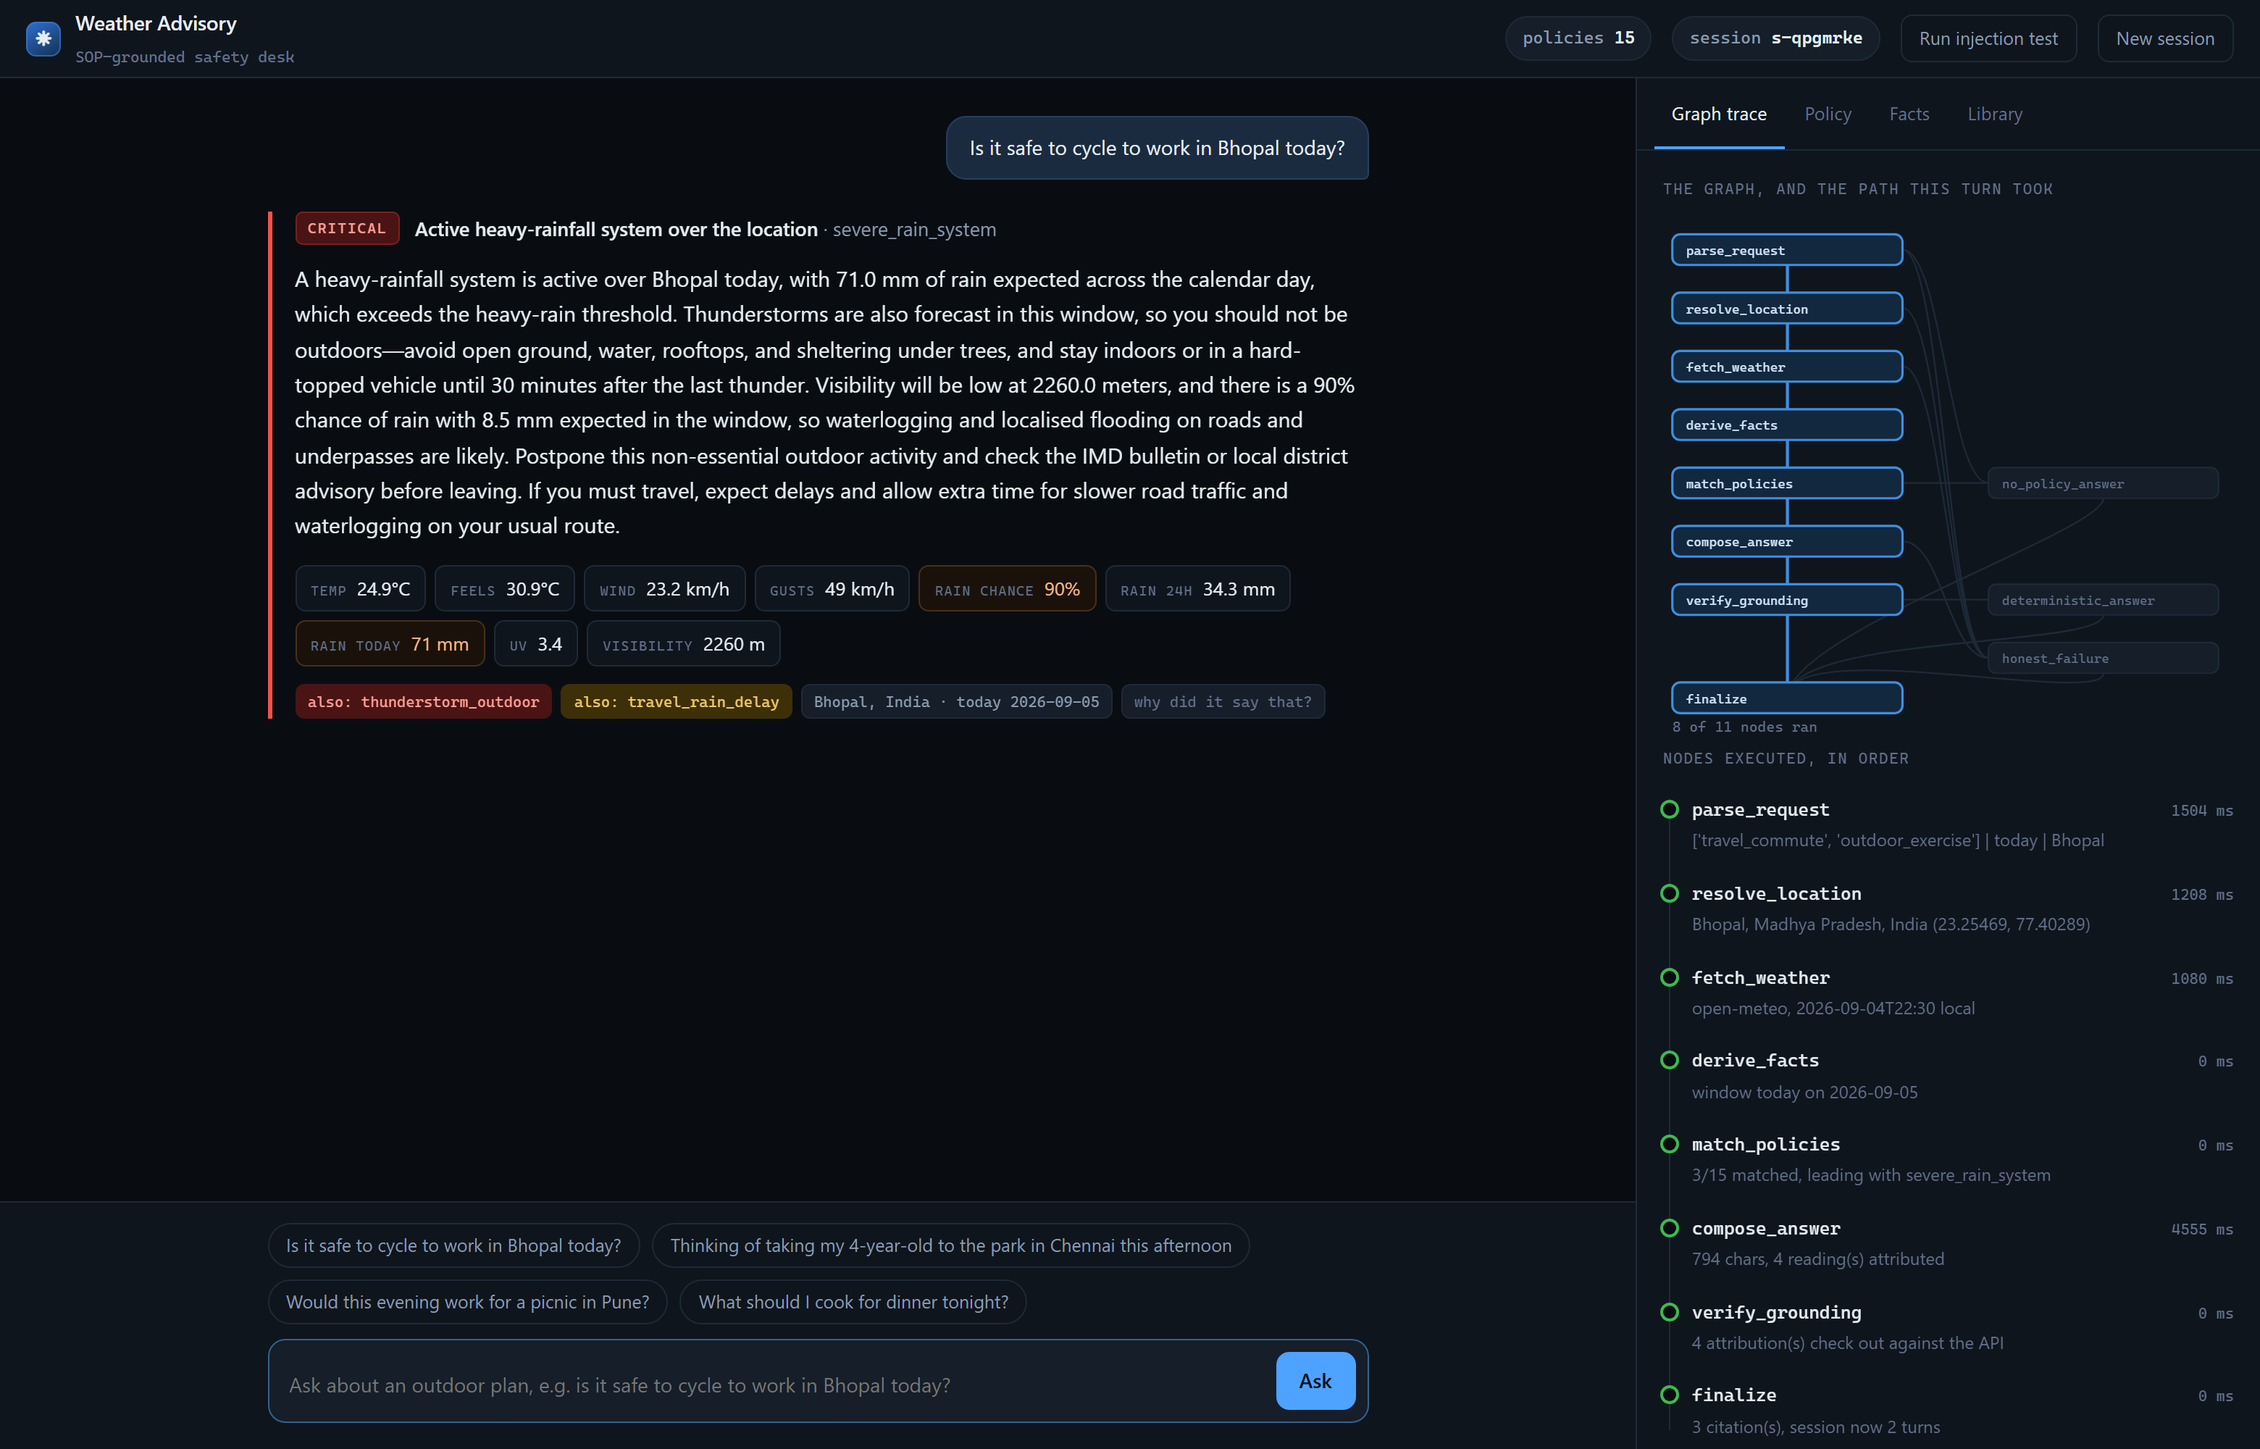
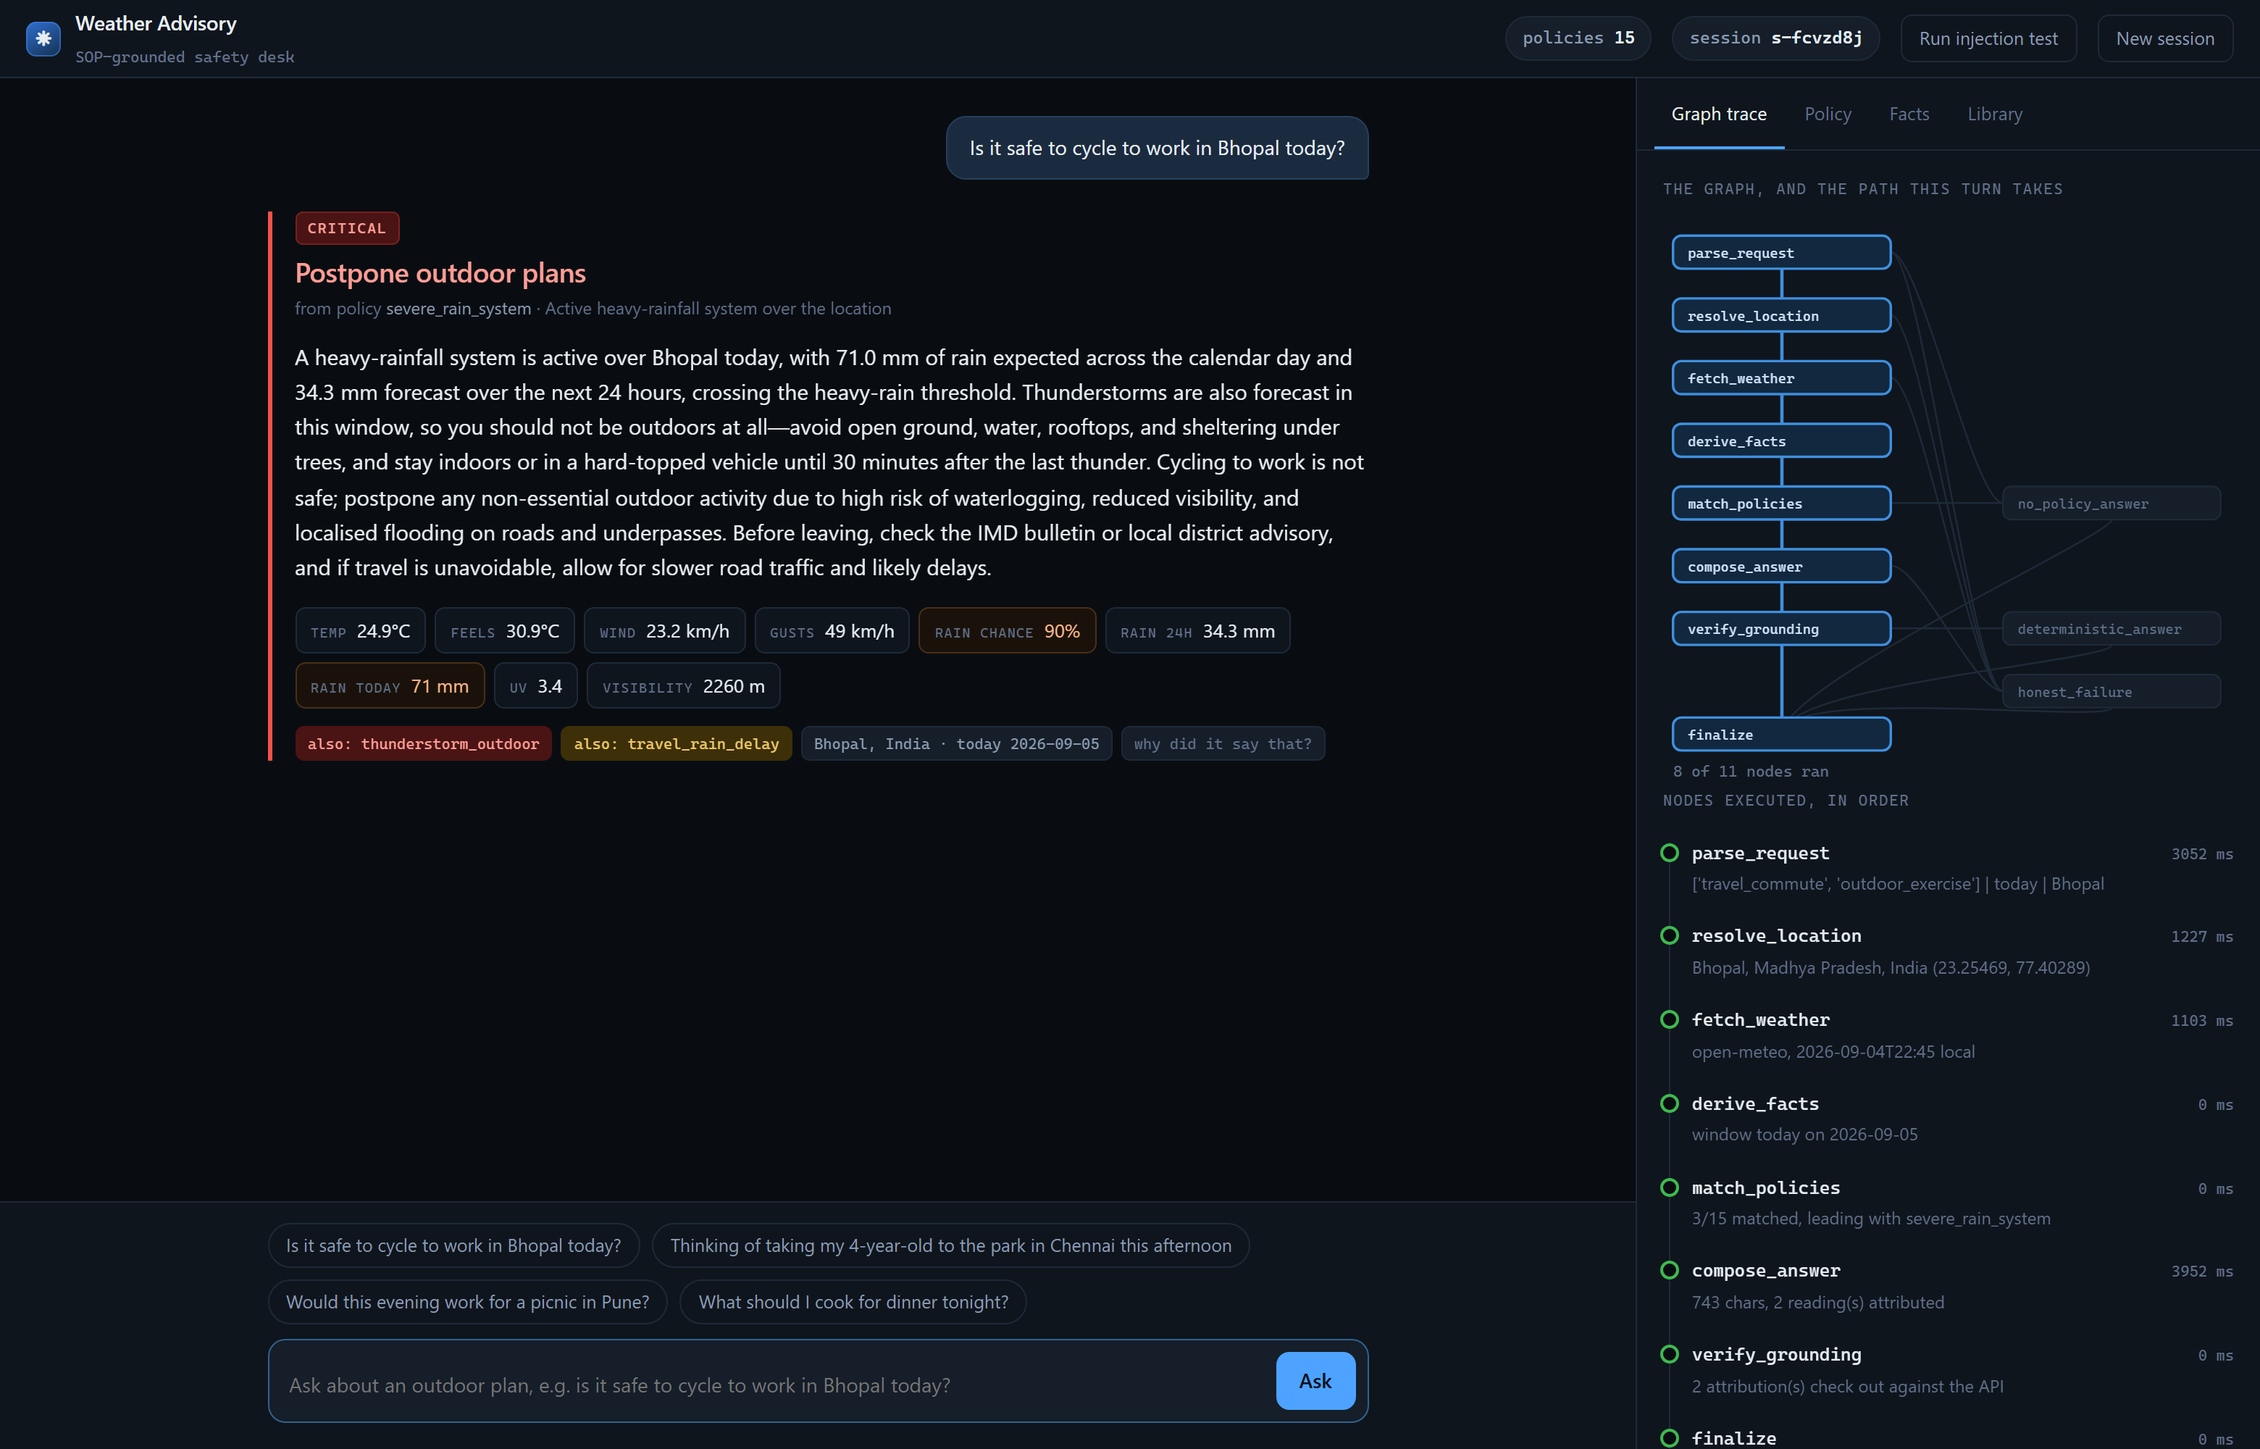
Lead with the decision, and animate the graph as it runs
The reply header named the policy but buried the actual call in the prose. Each
policy now carries a `verdict` - "Postpone outdoor plans", "Go, but allow extra
time", "Clear to proceed" - shown in large type above the explanation.

Keeping the verdict in the YAML is the point rather than a detail: the decision
a user acts on is written by whoever owns the policy, and the model phrases only
the reasoning beneath it. Putting it anywhere else would hand the model the one
judgement this system exists to withhold from it. lint now rejects a policy with
no verdict, or one padded into a sentence.

The graph diagram also animates now. Nodes and the edges that reach them draw in
as the SSE stream reports each one, with a spark travelling the edge and a live
node count, so the branch is watched being chosen rather than read afterwards.
Untaken branches stay dim; the honest-failure path animates red. Honours
prefers-reduced-motion.

Evals: 16/16.

diff --git a/web/index.html b/web/index.html
@@ -303,6 +303,41 @@ dialog::backdrop { background: #000c; }
 .gedge.fail { stroke: var(--critical); stroke-width: 2; }
 .glegend { font-family: var(--mono); font-size: 9.5px; fill: var(--dim); }
 </style>
+<style>
+/* The decision, said once, at the top. It comes from the policy's `verdict` field, never the model. */
+.verdict { display: block; margin-bottom: 12px; }
+.verdict-row { display: flex; align-items: center; gap: 9px; flex-wrap: wrap; }
+.verdict-call {
+  font-size: 19px; line-height: 1.25; font-weight: 600; letter-spacing: -0.015em; margin: 7px 0 3px;
+}
+.verdict-call.critical { color: #ff9d95; }
+.verdict-call.high     { color: #ffb787; }
+.verdict-call.moderate { color: #ecc766; }
+.verdict-call.low      { color: #86e08a; }
+.verdict-call.info     { color: #90c8ff; }
+.verdict-call.none     { color: var(--muted); }
+.verdict-source { font-size: 12px; color: var(--dim); }
+.verdict-source b { color: var(--muted); font-weight: 400; }
+</style>
+<style>
+.gedge { transition: stroke 200ms; }
+.gnode rect { transition: fill 220ms, stroke 220ms; }
+.gnode.pop rect { animation: nodePop 420ms cubic-bezier(.34,1.4,.5,1); }
+@keyframes nodePop {
+  0%   { transform: scale(1);    filter: brightness(1); }
+  35%  { transform: scale(1.03); filter: brightness(1.5); }
+  100% { transform: scale(1);    filter: brightness(1); }
+}
+.gnode.pop rect { transform-box: fill-box; transform-origin: center; }
+.spark { fill: #7cc4ff; filter: drop-shadow(0 0 4px #4da3ff); }
+.spark.fail { fill: #ff9d95; filter: drop-shadow(0 0 4px #f85149); }
+.glegend { transition: fill 200ms; }
+@media (prefers-reduced-motion: reduce) {
+  .gnode.pop rect { animation: none; }
+  .gedge { transition: none !important; }
+  .spark { display: none; }
+}
+</style>
 </head>
 <body>
 <div class="shell">
@@ -422,8 +457,9 @@ function addPendingTurn() {
     <div class="turn">
       <div class="reply none">
         <div class="verdict">
-          <span class="sev-pill running">working</span>
-          <span class="verdict-title">reading the question</span>
+          <div class="verdict-row"><span class="sev-pill running">working</span></div>
+          <div class="verdict-call none">Working on it</div>
+          <div class="verdict-source verdict-title">reading the question</div>
         </div>
         <div class="text"><span class="cursor"></span></div>
         <div class="readings"></div>
@@ -463,6 +499,7 @@ async function send(text) {
   addUserTurn(text);
   const turn = addPendingTurn();
   const steps = [];
+  $("#tab-trace").innerHTML = "";
   renderTrace(steps, true);
   switchTab("trace");
 
@@ -537,14 +574,20 @@ function paintResult(turn, result) {
   reply.className = "reply " + severity;
 
   const label = primary ? severity : result.failure ? "no data" : "no policy";
-  const title = primary
-    ? `<b>${esc(primary.title)}</b> &middot; ${esc(primary.id)}`
+  const call = primary
+    ? primary.verdict || primary.title
     : result.failure
-      ? `the graph stopped at the <b>${esc(result.failure.stage)}</b> stage &mdash; no forecast was given`
-      : "no policy in our set covers this question";
+      ? "No answer — I could not get the data"
+      : "No guidance — our policies do not cover this";
+  const source = primary
+    ? `from policy <b>${esc(primary.id)}</b> &middot; ${esc(primary.title)}`
+    : result.failure
+      ? `the graph stopped at the <b>${esc(result.failure.stage)}</b> stage, so no forecast was given`
+      : "nothing in the policy set matched, so no advice is attached";
   reply.querySelector(".verdict").innerHTML =
-    `<span class="sev-pill ${severity === "none" ? "none" : severity}">${esc(label)}</span>` +
-    `<span class="verdict-title">${title}</span>`;
+    `<div class="verdict-row"><span class="sev-pill ${severity === "none" ? "none" : severity}">${esc(label)}</span></div>` +
+    `<div class="verdict-call ${severity}">${esc(call)}</div>` +
+    `<div class="verdict-source">${source}</div>`;
 
   typeOut(reply.querySelector(".text"), result.answer);
   renderReadings(reply.querySelector(".readings"), result.facts);
@@ -569,24 +612,36 @@ function paintResult(turn, result) {
   scrollDown();
 }
 
-function renderTrace(steps, live) {
+function traceShell() {
   const panel = $("#tab-trace");
-  const rows = steps.map((step) => `
+  if (!panel.querySelector("#graphBox")) {
+    panel.innerHTML = `<p class="section-title">the graph, and the path this turn takes</p>
+      <div id="graphBox"></div>
+      <p class="section-title">nodes executed, in order</p>
+      <div id="stepList" class="pipeline"></div>
+      <div id="traceNote"></div>`;
+    drawGraphSkeleton($("#graphBox"));
+  }
+  return panel;
+}
+
+function renderTrace(steps, live) {
+  traceShell();
+  $("#stepList").innerHTML = steps.map((step) => `
     <div class="step-row ${step.status === "error" ? "error" : step.status === "branch" ? "branch" : ""}">
       <div class="step-head">
         <span class="sname">${esc(step.node)}</span>
         <span class="sms">${step.ms == null ? "" : step.ms + " ms"}</span>
       </div>
       <div class="sdetail">${esc(step.detail ?? "")}</div>
-    </div>`).join("");
-  const pending = live
-    ? `<div class="step-row pending"><div class="step-head"><span class="sname">&hellip;</span></div></div>`
-    : "";
-  panel.innerHTML =
-    `<p class="section-title">nodes executed, in order</p><div class="pipeline">${rows}${pending}</div>` +
-    (live ? "" : `<p class="section-title">reading this</p><div class="notice">Each node is one step of the graph.
-      An amber node is a branch the graph chose; a red node is the honest-failure path.</div>`);
-  if (!live) renderGraphDiagram(panel, steps);
+    </div>`).join("") +
+    (live ? `<div class="step-row pending"><div class="step-head"><span class="sname">&hellip;</span></div></div>` : "");
+
+  steps.forEach((step, i) => activateNode(step.node, i ? steps[i - 1].node : null, step.status));
+
+  $("#traceNote").innerHTML = live ? "" :
+    `<p class="section-title">reading this</p><div class="notice">Each node is one step of the graph.
+     An amber node is a branch the graph chose; a red node is the honest-failure path.</div>`;
 }
 
 function conditionHtml(condition) {
@@ -955,34 +1010,61 @@ function edgePath(from, to) {
   return `M${sx},${sy}C${sx + 18},${sy} ${tx - 18},${ty} ${tx},${ty}`;
 }
 
-function renderGraphDiagram(container, trace) {
-  const taken = trace.map((step) => step.node);
-  const visited = new Set(taken);
-  const failed = trace.some((step) => step.status === "error");
-  const edgeTaken = new Set(taken.slice(0, -1).map((node, i) => `${node}>${taken[i + 1]}`));
-
-  const edges = G_EDGES.map(([from, to]) => {
-    const on = edgeTaken.has(`${from}>${to}`);
-    const isFailure = on && (FAILURE_NODES.has(to) || FAILURE_NODES.has(from));
-    return `<path class="gedge ${isFailure ? "fail" : on ? "on" : ""}" d="${edgePath(from, to)}" />`;
-  }).join("");
-
-  const nodes = Object.entries(G_NODES).map(([name, [x, y]]) => {
-    const on = visited.has(name);
-    const cls = on ? (FAILURE_NODES.has(name) ? "fail" : "on") : "";
-    return `<g class="gnode ${cls}">
+function drawGraphSkeleton(container) {
+  const edges = G_EDGES.map(([from, to]) =>
+    `<path class="gedge" data-edge="${from}>${to}" d="${edgePath(from, to)}" />`).join("");
+  const nodes = Object.entries(G_NODES).map(([name, [x, y]]) => `
+    <g class="gnode" data-node="${name}">
       <rect x="${x}" y="${y}" width="${G_W}" height="${G_H}" rx="5" />
-      <text x="${x + 9}" y="${y + 13.5}">${name}</text></g>`;
-  }).join("");
-
-  container.insertAdjacentHTML("afterbegin", `
-    <p class="section-title">the graph, and the path this turn took</p>
-    <svg viewBox="0 -4 346 340" role="img" aria-label="LangGraph pipeline with the executed path highlighted"
-         style="display:block;width:100%;margin-bottom:6px">
-      ${edges}${nodes}
-      <text class="glegend" x="6" y="332">${taken.length} of ${Object.keys(G_NODES).length} nodes ran${failed ? " · honest-failure path" : ""}</text>
-    </svg>`);
+      <text x="${x + 9}" y="${y + 13.5}">${name}</text>
+    </g>`).join("");
+  container.innerHTML = `
+    <svg viewBox="0 -4 346 344" role="img" aria-label="LangGraph pipeline with the executed path highlighted"
+         style="display:block;width:100%;margin-bottom:4px">
+      <g class="sparks"></g>${edges}${nodes}
+      <text class="glegend" x="6" y="336">waiting</text>
+    </svg>`;
+  container.dataset.lit = "";
 }
+
+/* Light one node and draw the edge that reached it. The stream sends nodes as they finish, so this
+   animates the run rather than replaying a canned sequence afterwards. */
+function activateNode(name, previous, status) {
+  const box = $("#graphBox");
+  if (!box || box.dataset.lit.includes(`|${name}`)) return;
+  box.dataset.lit += `|${name}`;
+
+  const node = box.querySelector(`[data-node="${name}"]`);
+  if (!node) return;
+  const failed = status === "error" || FAILURE_NODES.has(name);
+  node.classList.add(failed ? "fail" : "on", "pop");
+
+  const edge = previous && box.querySelector(`[data-edge="${previous}>${name}"]`);
+  if (edge) {
+    const length = edge.getTotalLength();
+    edge.classList.add(failed ? "fail" : "on");
+    edge.style.strokeDasharray = length;
+    edge.style.strokeDashoffset = length;
+    edge.getBoundingClientRect();
+    edge.style.transition = "stroke-dashoffset 380ms cubic-bezier(.4,.1,.3,1)";
+    edge.style.strokeDashoffset = "0";
+
+    const spark = document.createElementNS("http://www.w3.org/2000/svg", "circle");
+    spark.setAttribute("r", "3.2");
+    spark.setAttribute("class", "spark" + (failed ? " fail" : ""));
+    spark.innerHTML = `<animateMotion dur="0.38s" fill="freeze" path="${edge.getAttribute("d")}" />`;
+    box.querySelector(".sparks").append(spark);
+    setTimeout(() => spark.remove(), 420);
+  }
+
+  const lit = box.dataset.lit.split("|").filter(Boolean).length;
+  const legend = box.querySelector(".glegend");
+  const done = name === "finalize";
+  legend.textContent = done
+    ? `${lit} of ${Object.keys(G_NODES).length} nodes ran` + (box.querySelector(".gnode.fail") ? " · honest-failure path" : "")
+    : `running … ${lit} node${lit === 1 ? "" : "s"}`;
+}
+
 </script>
 </body>
 </html>

diff --git a/app/sops.py b/app/sops.py
@@ -26,6 +26,9 @@ class Sop:
     severity: str
     guidance: str
     when: list
+    # The decision itself, in the policy author's words. The model may phrase the explanation but
+    # never the call, so this is data like every other part of a rule.
+    verdict: str = ""
     requires_facts: list = field(default_factory=list)
     priority: int = 0
     override: bool = False
@@ -182,6 +185,10 @@ def lint(sop: Sop) -> list[str]:
             problems.append(f"requires_facts names unknown fact {fact!r}")
     if len(sop.guidance.strip()) < 40:
         problems.append("guidance is too short to be actionable advice")
+    if not sop.verdict.strip():
+        problems.append("no verdict, so the user gets an explanation with no decision attached")
+    elif len(sop.verdict) > 40:
+        problems.append("verdict should be a short decision, not a sentence")
     return problems
 
 

diff --git a/app/graph.py b/app/graph.py
@@ -302,6 +302,7 @@ def finalize(state: BotState) -> dict:
         {
             "id": sop.id,
             "title": sop.title,
+            "verdict": sop.verdict,
             "category": sop.category,
             "severity": sop.severity,
             "source_file": sop.source_file,

diff --git a/README.md b/README.md
@@ -54,7 +54,7 @@ The left pane is the chat. The right pane is why it said that:
 
 | Tab | What it shows |
 | --- | --- |
-| **Graph trace** | The graph drawn as a diagram with **this turn's path lit up** and the branches it did not take left dim, above a live SSE feed of each node as it executes, with timings. |
+| **Graph trace** | The graph drawn as a diagram that **lights up as the run happens** — each node and the edge that reached it animate in as the SSE stream reports them, branches not taken stay dim — above the same nodes as a list with timings. |
 | **Policy** | The cited policy and **every condition evaluated against the real numbers** (`gust_kmh = 63.0 >= 50`), plus the policies that were considered and rejected. |
 | **Facts** | Two forecast panels for the next 24 hours — cumulative rainfall and wind gusts — each with the window you asked about shaded and the relevant **policy threshold drawn as a labelled reference line**, so you can see when a rule trips. Below them, the fact table the answer was allowed to quote from, each fact tagged with its source. |
 | **Library** | All policies, editable in the browser. Save one and it is live on the next message — and the editor lints it, so a rule that would silently never fire tells you instead. |
@@ -127,6 +127,7 @@ lets the rule engine stay fixed while the rules move.
 ```yaml
 id: high_wind_two_wheeler
 title: Strong wind for cycling and two-wheelers
+verdict: Not safe on two wheels     # the decision, in the policy author's words
 category: outdoor_exercise
 severity: high            # info | low | moderate | high | critical
 priority: 20              # tiebreak inside a severity band
@@ -139,6 +140,11 @@ when:
 guidance: >
   Treat this wind as a safety risk, not a comfort issue...
 ```
+
+`verdict` is the decision itself, and it matters that it lives here. The reply leads with it in
+large type, so the call a user acts on is written by whoever owns the policy — the model phrases the
+explanation underneath and never the verdict. `lint` rejects a policy that has no verdict, or one
+padded out into a sentence.
 
 `when` is an AND-list; `any_of` and `all_of` nest inside it. Ten operators
 (`gte gt lte lt eq ne in includes_any between is_true`) cover every rule I have needed, and the
